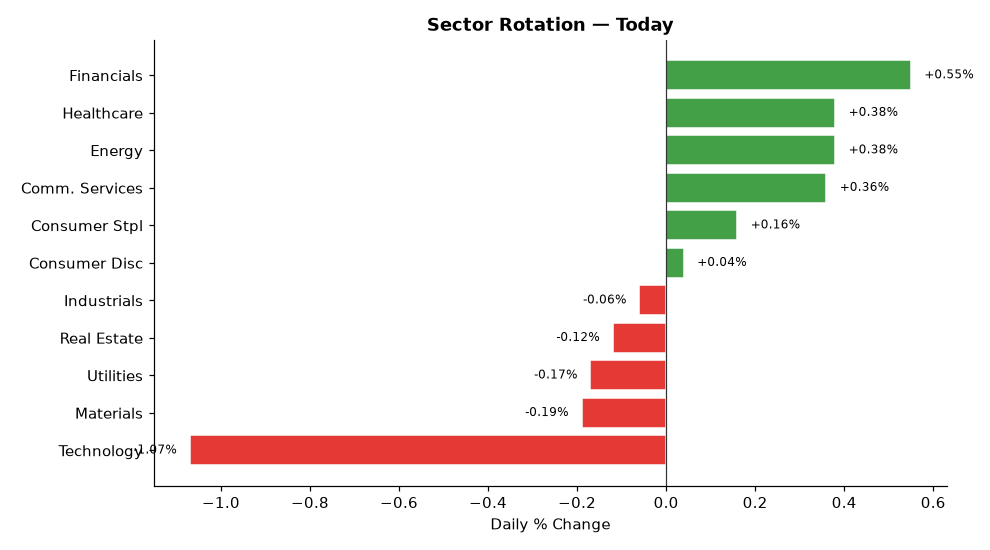
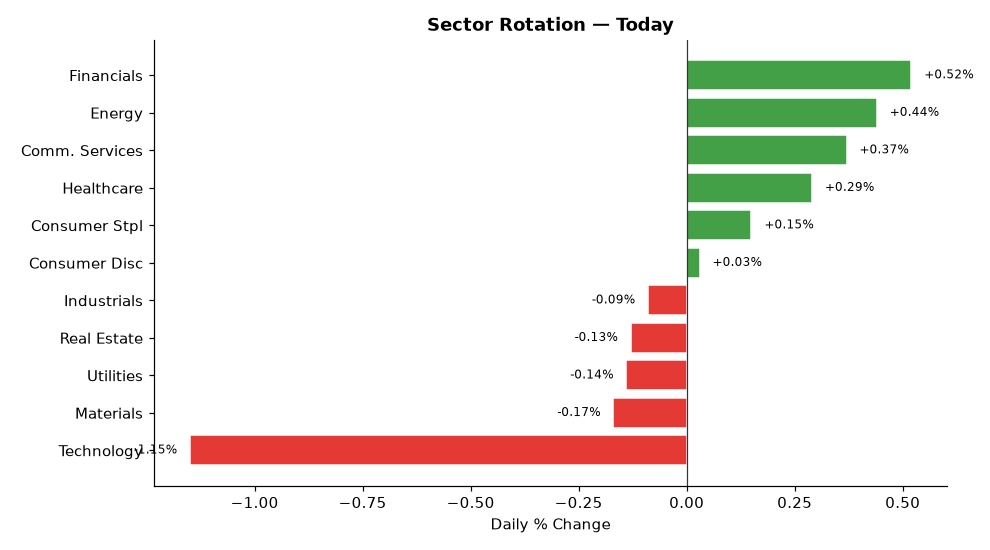
deploy: b7fadf5b06deb90e7ebb92f278722414bdd9750d

diff --git a/index.html b/index.html
@@ -4,7 +4,7 @@
   <meta charset="UTF-8">
   <meta name="viewport" content="width=device-width,initial-scale=1">
   <meta http-equiv="Cache-Control" content="no-cache,no-store,must-revalidate">
-  <title>Stock Breakout Screener — 2026-11-10 20:56</title>
+  <title>Stock Breakout Screener — 2026-11-10 22:14</title>
   <style>
     *{box-sizing:border-box;margin:0;padding:0}
     body{font-family:'Segoe UI',Arial,sans-serif;background:#f0f2f5;
@@ -34,7 +34,7 @@
 
 <div class="hdr">
   <h1>📈 Stock Breakout Screener</h1>
-  <p>Updated: 2026-11-10 20:56 UTC &nbsp;·&nbsp; Phase: After-Hours (4:00–8:00 PM ET) &nbsp;·&nbsp;
+  <p>Updated: 2026-11-10 22:14 UTC &nbsp;·&nbsp; Phase: After-Hours (4:00–8:00 PM ET) &nbsp;·&nbsp;
      129 stocks screened &nbsp;·&nbsp; Top 5 by conviction score</p>
 </div>
 
@@ -69,7 +69,7 @@
             </span>
           </div>
           <ul style="margin:0;padding-left:18px;font-size:13px;
-                     color:#333;line-height:1.8"><li style="margin:5px 0"><span style="background:#ffebee;color:#b71c1c;padding:2px 7px;border-radius:4px;font-size:11px;">❌</span> Volume: <b>0.4× average</b> — Above-average activity</li><li style="margin:5px 0"><span style="background:#ffebee;color:#b71c1c;padding:2px 7px;border-radius:4px;font-size:11px;">❌</span> Candle: close <b>$85.89</b> vs open <b>$85.82</b> (+0.1%) — regular market close</li><li style="margin:5px 0"><span style="background:#e8f5e9;color:#2e7d32;padding:2px 7px;border-radius:4px;font-size:11px;">✅</span> 200-Day MA: price <b>$85.89</b> vs MA <b>$83.13</b> — <b>✅ Above</b> long-term trend</li><li style="margin:5px 0"><span style="background:#e8f5e9;color:#2e7d32;padding:2px 7px;border-radius:4px;font-size:11px;">✅</span> Inst. ownership: <b>79.8%</b> · MFI: <b>67.7</b> · Market cap: <b>$257.8B</b></li></ul>
+                     color:#333;line-height:1.8"><li style="margin:5px 0"><span style="background:#ffebee;color:#b71c1c;padding:2px 7px;border-radius:4px;font-size:11px;">❌</span> Volume: <b>0.6× average</b> — Above-average activity</li><li style="margin:5px 0"><span style="background:#ffebee;color:#b71c1c;padding:2px 7px;border-radius:4px;font-size:11px;">❌</span> Candle: close <b>$85.76</b> vs open <b>$85.82</b> (-0.1%) — regular market close</li><li style="margin:5px 0"><span style="background:#e8f5e9;color:#2e7d32;padding:2px 7px;border-radius:4px;font-size:11px;">✅</span> 200-Day MA: price <b>$85.76</b> vs MA <b>$83.13</b> — <b>✅ Above</b> long-term trend</li><li style="margin:5px 0"><span style="background:#e8f5e9;color:#2e7d32;padding:2px 7px;border-radius:4px;font-size:11px;">✅</span> Inst. ownership: <b>79.8%</b> · MFI: <b>68.2</b> · Market cap: <b>$257.4B</b></li></ul>
         </div>
         <div style="background:#fff;border:1px solid #ddd;border-radius:10px;
                     padding:16px 20px;margin-bottom:12px;
@@ -86,7 +86,7 @@
             </span>
           </div>
           <ul style="margin:0;padding-left:18px;font-size:13px;
-                     color:#333;line-height:1.8"><li style="margin:5px 0"><span style="background:#ffebee;color:#b71c1c;padding:2px 7px;border-radius:4px;font-size:11px;">❌</span> Volume: <b>0.6× average</b> — Above-average activity</li><li style="margin:5px 0"><span style="background:#ffebee;color:#b71c1c;padding:2px 7px;border-radius:4px;font-size:11px;">❌</span> Candle: close <b>$1220.42</b> vs open <b>$1218.20</b> (+0.2%) — regular market close</li><li style="margin:5px 0"><span style="background:#e8f5e9;color:#2e7d32;padding:2px 7px;border-radius:4px;font-size:11px;">✅</span> 200-Day MA: price <b>$1220.42</b> vs MA <b>$1080.23</b> — <b>✅ Above</b> long-term trend</li><li style="margin:5px 0"><span style="background:#e8f5e9;color:#2e7d32;padding:2px 7px;border-radius:4px;font-size:11px;">✅</span> Inst. ownership: <b>85.0%</b> · MFI: <b>62.2</b> · Market cap: <b>$188.5B</b></li></ul>
+                     color:#333;line-height:1.8"><li style="margin:5px 0"><span style="background:#ffebee;color:#b71c1c;padding:2px 7px;border-radius:4px;font-size:11px;">❌</span> Volume: <b>0.8× average</b> — Above-average activity</li><li style="margin:5px 0"><span style="background:#ffebee;color:#b71c1c;padding:2px 7px;border-radius:4px;font-size:11px;">❌</span> Candle: close <b>$1222.15</b> vs open <b>$1218.20</b> (+0.3%) — regular market close</li><li style="margin:5px 0"><span style="background:#e8f5e9;color:#2e7d32;padding:2px 7px;border-radius:4px;font-size:11px;">✅</span> 200-Day MA: price <b>$1222.15</b> vs MA <b>$1080.25</b> — <b>✅ Above</b> long-term trend</li><li style="margin:5px 0"><span style="background:#e8f5e9;color:#2e7d32;padding:2px 7px;border-radius:4px;font-size:11px;">✅</span> Inst. ownership: <b>85.0%</b> · MFI: <b>62.8</b> · Market cap: <b>$188.7B</b></li></ul>
         </div>
         <div style="background:#fff;border:1px solid #ddd;border-radius:10px;
                     padding:16px 20px;margin-bottom:12px;
@@ -103,7 +103,7 @@
             </span>
           </div>
           <ul style="margin:0;padding-left:18px;font-size:13px;
-                     color:#333;line-height:1.8"><li style="margin:5px 0"><span style="background:#ffebee;color:#b71c1c;padding:2px 7px;border-radius:4px;font-size:11px;">❌</span> Volume: <b>0.4× average</b> — Above-average activity</li><li style="margin:5px 0"><span style="background:#ffebee;color:#b71c1c;padding:2px 7px;border-radius:4px;font-size:11px;">❌</span> Candle: close <b>$309.21</b> vs open <b>$304.46</b> (+1.6%) — regular market close</li><li style="margin:5px 0"><span style="background:#e8f5e9;color:#2e7d32;padding:2px 7px;border-radius:4px;font-size:11px;">✅</span> 200-Day MA: price <b>$309.21</b> vs MA <b>$269.24</b> — <b>✅ Above</b> long-term trend</li><li style="margin:5px 0"><span style="background:#e8f5e9;color:#2e7d32;padding:2px 7px;border-radius:4px;font-size:11px;">✅</span> Inst. ownership: <b>91.6%</b> · MFI: <b>69.7</b> · Market cap: <b>$110.7B</b></li></ul>
+                     color:#333;line-height:1.8"><li style="margin:5px 0"><span style="background:#ffebee;color:#b71c1c;padding:2px 7px;border-radius:4px;font-size:11px;">❌</span> Volume: <b>0.7× average</b> — Above-average activity</li><li style="margin:5px 0"><span style="background:#ffebee;color:#b71c1c;padding:2px 7px;border-radius:4px;font-size:11px;">❌</span> Candle: close <b>$309.09</b> vs open <b>$304.46</b> (+1.5%) — regular market close</li><li style="margin:5px 0"><span style="background:#e8f5e9;color:#2e7d32;padding:2px 7px;border-radius:4px;font-size:11px;">✅</span> 200-Day MA: price <b>$309.09</b> vs MA <b>$269.24</b> — <b>✅ Above</b> long-term trend</li><li style="margin:5px 0"><span style="background:#e8f5e9;color:#2e7d32;padding:2px 7px;border-radius:4px;font-size:11px;">✅</span> Inst. ownership: <b>91.6%</b> · MFI: <b>70.5</b> · Market cap: <b>$110.6B</b></li></ul>
         </div>
         <div style="background:#fff;border:1px solid #ddd;border-radius:10px;
                     padding:16px 20px;margin-bottom:12px;
@@ -120,7 +120,7 @@
             </span>
           </div>
           <ul style="margin:0;padding-left:18px;font-size:13px;
-                     color:#333;line-height:1.8"><li style="margin:5px 0"><span style="background:#e8f5e9;color:#2e7d32;padding:2px 7px;border-radius:4px;font-size:11px;">✅</span> Volume: <b>2.9× average</b> — 🔥 Strong unusual activity</li><li style="margin:5px 0"><span style="background:#fffde7;color:#f57f17;padding:2px 7px;border-radius:4px;font-size:11px;">⚠</span> Candle: close <b>$106.30</b> vs open <b>$105.00</b> (+1.2%) — regular market close</li><li style="margin:5px 0"><span style="background:#e8f5e9;color:#2e7d32;padding:2px 7px;border-radius:4px;font-size:11px;">✅</span> 200-Day MA: price <b>$106.30</b> vs MA <b>$92.06</b> — <b>✅ Above</b> long-term trend</li><li style="margin:5px 0"><span style="background:#e8f5e9;color:#2e7d32;padding:2px 7px;border-radius:4px;font-size:11px;">✅</span> Inst. ownership: <b>88.3%</b> · MFI: <b>86.6</b> · Market cap: <b>$12.9B</b></li></ul>
+                     color:#333;line-height:1.8"><li style="margin:5px 0"><span style="background:#e8f5e9;color:#2e7d32;padding:2px 7px;border-radius:4px;font-size:11px;">✅</span> Volume: <b>3.4× average</b> — 🔥 Strong unusual activity</li><li style="margin:5px 0"><span style="background:#fffde7;color:#f57f17;padding:2px 7px;border-radius:4px;font-size:11px;">⚠</span> Candle: close <b>$106.60</b> vs open <b>$105.00</b> (+1.5%) — regular market close</li><li style="margin:5px 0"><span style="background:#e8f5e9;color:#2e7d32;padding:2px 7px;border-radius:4px;font-size:11px;">✅</span> 200-Day MA: price <b>$106.60</b> vs MA <b>$92.06</b> — <b>✅ Above</b> long-term trend</li><li style="margin:5px 0"><span style="background:#e8f5e9;color:#2e7d32;padding:2px 7px;border-radius:4px;font-size:11px;">✅</span> Inst. ownership: <b>88.3%</b> · MFI: <b>87.1</b> · Market cap: <b>$12.9B</b></li></ul>
         </div>
         <div style="background:#fff;border:1px solid #ddd;border-radius:10px;
                     padding:16px 20px;margin-bottom:12px;
@@ -128,16 +128,16 @@
           <div style="display:flex;align-items:center;gap:10px;
                       flex-wrap:wrap;margin-bottom:10px">
             <span style="font-size:22px">🟡</span>
-            <span style="font-size:19px;font-weight:700">5. JPM</span>
-            <span style="font-size:12px;color:#666">Financials</span>
+            <span style="font-size:19px;font-weight:700">5. EOG</span>
+            <span style="font-size:12px;color:#666">Energy</span>
             <span style="margin-left:auto;background:#1a237e;color:#fff;
                          padding:3px 12px;border-radius:12px;
                          font-size:13px;font-weight:600">
-              10/17
+              11/17
             </span>
           </div>
           <ul style="margin:0;padding-left:18px;font-size:13px;
-                     color:#333;line-height:1.8"><li style="margin:5px 0"><span style="background:#ffebee;color:#b71c1c;padding:2px 7px;border-radius:4px;font-size:11px;">❌</span> Volume: <b>0.4× average</b> — Above-average activity</li><li style="margin:5px 0"><span style="background:#ffebee;color:#b71c1c;padding:2px 7px;border-radius:4px;font-size:11px;">❌</span> Candle: close <b>$342.40</b> vs open <b>$343.96</b> (-0.5%) — regular market close</li><li style="margin:5px 0"><span style="background:#e8f5e9;color:#2e7d32;padding:2px 7px;border-radius:4px;font-size:11px;">✅</span> 200-Day MA: price <b>$342.40</b> vs MA <b>$334.70</b> — <b>✅ Above</b> long-term trend</li><li style="margin:5px 0"><span style="background:#e8f5e9;color:#2e7d32;padding:2px 7px;border-radius:4px;font-size:11px;">✅</span> Inst. ownership: <b>75.6%</b> · MFI: <b>57.8</b> · Market cap: <b>$909.4B</b></li></ul>
+                     color:#333;line-height:1.8"><li style="margin:5px 0"><span style="background:#fffde7;color:#f57f17;padding:2px 7px;border-radius:4px;font-size:11px;">⚠</span> Volume: <b>1.3× average</b> — Above-average activity</li><li style="margin:5px 0"><span style="background:#e8f5e9;color:#2e7d32;padding:2px 7px;border-radius:4px;font-size:11px;">✅</span> Candle: close <b>$151.51</b> vs open <b>$147.09</b> (+3.0%) — regular market close</li><li style="margin:5px 0"><span style="background:#e8f5e9;color:#2e7d32;padding:2px 7px;border-radius:4px;font-size:11px;">✅</span> 200-Day MA: price <b>$151.51</b> vs MA <b>$142.13</b> — <b>✅ Above</b> long-term trend</li><li style="margin:5px 0"><span style="background:#e8f5e9;color:#2e7d32;padding:2px 7px;border-radius:4px;font-size:11px;">✅</span> Inst. ownership: <b>99.2%</b> · MFI: <b>52.2</b> · Market cap: <b>$78.6B</b></li></ul>
         </div>
 
 
@@ -169,17 +169,17 @@
         <tr>
           <td style="font-weight:700;text-align:left;padding-left:10px">
             🟡 WFC</td>
-          <td style="background:#ffcdd2">0.4×</td>
-          <td style="background:#ffcdd2">+0.1%</td>
+          <td style="background:#ffcdd2">0.6×</td>
+          <td style="background:#ffcdd2">-0.1%</td>
           <td style="background:#c8e6c9">
             ▲ Above</td>
           <td style="background:#c8e6c9">
             79.8%</td>
           <td style="background:#c8e6c9">
-            67.7</td>
+            68.2</td>
           <td style="background:#c8e6c9">Financials</td>
           <td style="background:#c8e6c9">
-            65.9%</td>
+            68.2%</td>
           <td style="background:#ffcdd2">
             N/A</td>
           <td style="font-weight:800;font-size:15px">11/17</td>
@@ -187,17 +187,17 @@
         <tr>
           <td style="font-weight:700;text-align:left;padding-left:10px">
             🟡 BLK</td>
-          <td style="background:#ffcdd2">0.6×</td>
-          <td style="background:#ffcdd2">+0.2%</td>
+          <td style="background:#ffcdd2">0.8×</td>
+          <td style="background:#ffcdd2">+0.3%</td>
           <td style="background:#c8e6c9">
             ▲ Above</td>
           <td style="background:#c8e6c9">
             85.0%</td>
           <td style="background:#c8e6c9">
-            62.2</td>
+            62.8</td>
           <td style="background:#c8e6c9">Financials</td>
           <td style="background:#c8e6c9">
-            37.4%</td>
+            48.4%</td>
           <td style="background:#ffcdd2">
             N/A</td>
           <td style="font-weight:800;font-size:15px">11/17</td>
@@ -205,17 +205,17 @@
         <tr>
           <td style="font-weight:700;text-align:left;padding-left:10px">
             🟡 CME</td>
-          <td style="background:#ffcdd2">0.4×</td>
-          <td style="background:#ffcdd2">+1.6%</td>
+          <td style="background:#ffcdd2">0.7×</td>
+          <td style="background:#ffcdd2">+1.5%</td>
           <td style="background:#c8e6c9">
             ▲ Above</td>
           <td style="background:#c8e6c9">
             91.6%</td>
           <td style="background:#c8e6c9">
-            69.7</td>
+            70.5</td>
           <td style="background:#c8e6c9">Financials</td>
           <td style="background:#c8e6c9">
-            51.5%</td>
+            55.6%</td>
           <td style="background:#ffcdd2">
             N/A</td>
           <td style="font-weight:800;font-size:15px">11/17</td>
@@ -223,38 +223,38 @@
         <tr>
           <td style="font-weight:700;text-align:left;padding-left:10px">
             🟡 CLX</td>
-          <td style="background:#c8e6c9">2.9×</td>
-          <td style="background:#fff9c4">+1.2%</td>
+          <td style="background:#c8e6c9">3.4×</td>
+          <td style="background:#fff9c4">+1.5%</td>
           <td style="background:#c8e6c9">
             ▲ Above</td>
           <td style="background:#c8e6c9">
             88.3%</td>
           <td style="background:#c8e6c9">
-            86.6</td>
+            87.1</td>
           <td style="background:#ffcdd2">Consumer Stpl</td>
           <td style="background:#c8e6c9">
-            138.1%</td>
+            113.2%</td>
           <td style="background:#ffcdd2">
             N/A</td>
           <td style="font-weight:800;font-size:15px">11/17</td>
         </tr>
         <tr>
           <td style="font-weight:700;text-align:left;padding-left:10px">
-            🟡 JPM</td>
-          <td style="background:#ffcdd2">0.4×</td>
-          <td style="background:#ffcdd2">-0.5%</td>
+            🟡 EOG</td>
+          <td style="background:#fff9c4">1.3×</td>
+          <td style="background:#c8e6c9">+3.0%</td>
           <td style="background:#c8e6c9">
             ▲ Above</td>
           <td style="background:#c8e6c9">
-            75.6%</td>
+            99.2%</td>
           <td style="background:#fff9c4">
-            57.8</td>
-          <td style="background:#c8e6c9">Financials</td>
+            52.2</td>
+          <td style="background:#fff9c4">Energy</td>
           <td style="background:#c8e6c9">
-            52.5%</td>
+            72.4%</td>
           <td style="background:#ffcdd2">
             N/A</td>
-          <td style="font-weight:800;font-size:15px">10/17</td>
+          <td style="font-weight:800;font-size:15px">11/17</td>
         </tr>
 </table>
 </div>
@@ -278,57 +278,57 @@
         <tr>
           <td style="text-align:left;padding-left:10px;font-weight:600">
             #1 Financials</td>
-          <td style="background:#e8f5e9;color:#2e7d32;font-weight:700">+0.55%</td>
+          <td style="background:#e8f5e9;color:#2e7d32;font-weight:700">+0.52%</td>
         </tr>
         <tr>
           <td style="text-align:left;padding-left:10px;font-weight:600">
-            #2 Healthcare</td>
-          <td style="background:#e8f5e9;color:#2e7d32;font-weight:700">+0.38%</td>
+            #2 Energy</td>
+          <td style="background:#e8f5e9;color:#2e7d32;font-weight:700">+0.44%</td>
         </tr>
         <tr>
           <td style="text-align:left;padding-left:10px;font-weight:600">
-            #3 Energy</td>
-          <td style="background:#e8f5e9;color:#2e7d32;font-weight:700">+0.38%</td>
+            #3 Comm. Services</td>
+          <td style="background:#e8f5e9;color:#2e7d32;font-weight:700">+0.37%</td>
         </tr>
         <tr>
           <td style="text-align:left;padding-left:10px;font-weight:600">
-            #4 Comm. Services</td>
-          <td style="background:#e8f5e9;color:#2e7d32;font-weight:700">+0.36%</td>
+            #4 Healthcare</td>
+          <td style="background:#e8f5e9;color:#2e7d32;font-weight:700">+0.29%</td>
         </tr>
         <tr>
           <td style="text-align:left;padding-left:10px;font-weight:600">
             #5 Consumer Stpl</td>
-          <td style="background:#e8f5e9;color:#2e7d32;font-weight:700">+0.16%</td>
+          <td style="background:#e8f5e9;color:#2e7d32;font-weight:700">+0.15%</td>
         </tr>
         <tr>
           <td style="text-align:left;padding-left:10px;font-weight:600">
             #6 Consumer Disc</td>
-          <td style="background:#e8f5e9;color:#2e7d32;font-weight:700">+0.04%</td>
+          <td style="background:#e8f5e9;color:#2e7d32;font-weight:700">+0.03%</td>
         </tr>
         <tr>
           <td style="text-align:left;padding-left:10px;font-weight:600">
             #7 Industrials</td>
-          <td style="background:#ffebee;color:#c62828;font-weight:700">-0.06%</td>
+          <td style="background:#ffebee;color:#c62828;font-weight:700">-0.09%</td>
         </tr>
         <tr>
           <td style="text-align:left;padding-left:10px;font-weight:600">
             #8 Real Estate</td>
-          <td style="background:#ffebee;color:#c62828;font-weight:700">-0.12%</td>
+          <td style="background:#ffebee;color:#c62828;font-weight:700">-0.13%</td>
         </tr>
         <tr>
           <td style="text-align:left;padding-left:10px;font-weight:600">
             #9 Utilities</td>
-          <td style="background:#ffebee;color:#c62828;font-weight:700">-0.17%</td>
+          <td style="background:#ffebee;color:#c62828;font-weight:700">-0.14%</td>
         </tr>
         <tr>
           <td style="text-align:left;padding-left:10px;font-weight:600">
             #10 Materials</td>
-          <td style="background:#ffebee;color:#c62828;font-weight:700">-0.19%</td>
+          <td style="background:#ffebee;color:#c62828;font-weight:700">-0.17%</td>
         </tr>
         <tr>
           <td style="text-align:left;padding-left:10px;font-weight:600">
             #11 Technology</td>
-          <td style="background:#ffebee;color:#c62828;font-weight:700">-1.07%</td>
+          <td style="background:#ffebee;color:#c62828;font-weight:700">-1.15%</td>
         </tr>
     </table>
   </div>
@@ -367,7 +367,7 @@
         <li><b>Scoring weights:</b>
             Inst.Own(3) · Sector(3) · Volume(2) · Breakout(2) ·
             MA200(2) · MFI(2) · History(2) · IV(1) = 17pts max</li>
-        <li><b>Run time:</b> 2026-11-10 20:56 UTC — Market phase: After-Hours (4:00–8:00 PM ET)</li>
+        <li><b>Run time:</b> 2026-11-10 22:14 UTC — Market phase: After-Hours (4:00–8:00 PM ET)</li>
       </ul>
     </div>
 
